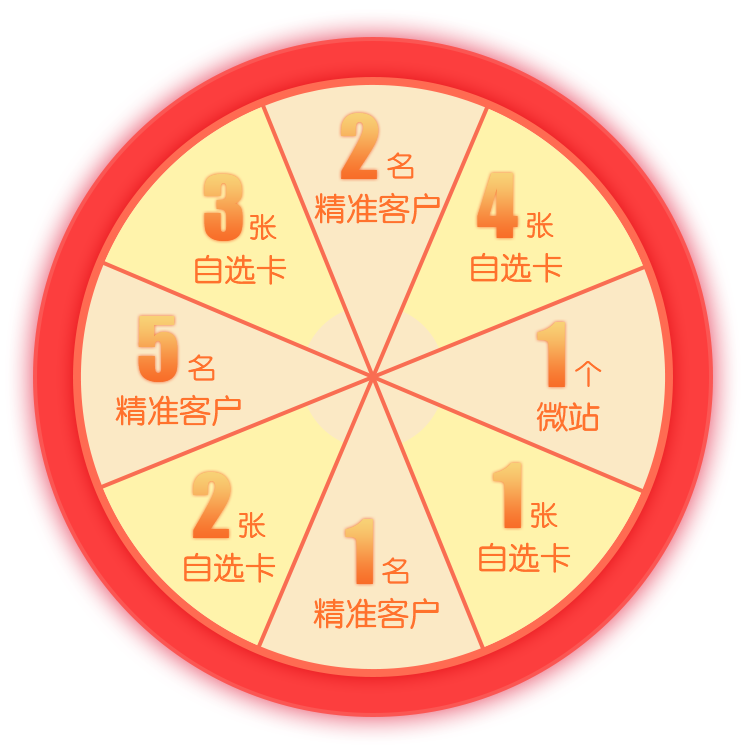
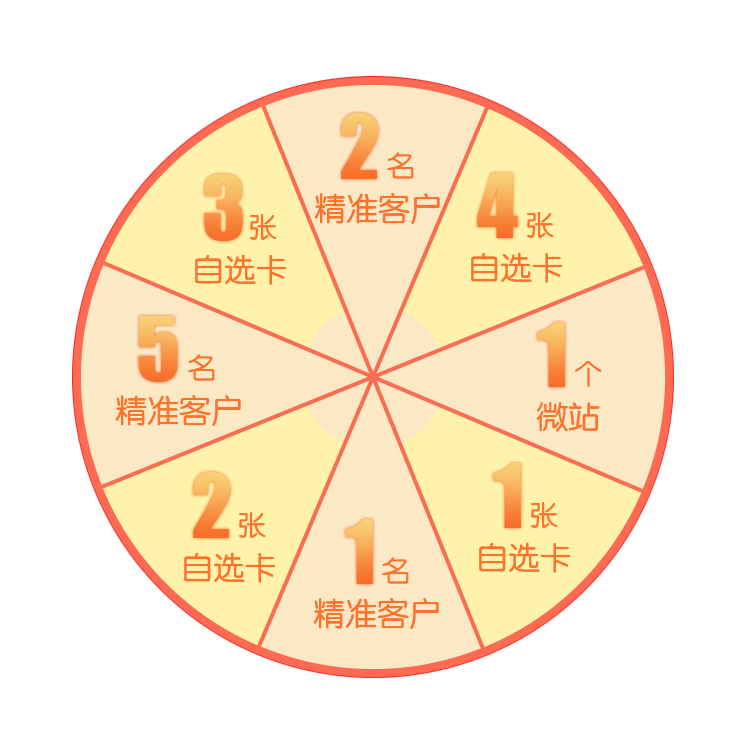
完成转盘正反转到指定位置的停止，加入彩灯闪烁

Changed region(s): [[0.0, 0.0307, 0.9813, 0.9813]]

diff --git a/lib/rotary.js b/lib/rotary.js
@@ -7,14 +7,19 @@ function Rotary(opt) {
         id: 'canvas',
         canvas_width: 300,//画布宽
         canvas_height: 300,//画布高
-        divide: 8,//转盘奖品划分的份数,7个奖品对应的索引值就是0~7,索引从0度开始
+        divide: 8,//转盘奖品划分的份数,7个奖品对应的索引值就是0~7,索引从正上方开始为0起点
+        object: false,//旋转主体，true是指针旋转，false是圆盘旋转
         pin_angle: -Math.PI / 2,//指针初始角度
         pin_size: 30 * Math.PI / 180,//指针夹角(弧度)
         pin_length: 20,//指针长度，三角形顶点到圆边界的距离
         pin_color: '#f6383e',//指针颜色
         pin_step: 30 * Math.PI / 180,//指针执行动画每秒旋转的弧度
-        pin_status: 0,//指针状态，0是默认,1是无限运动状态，2是缓停状态
-        pin_end: 5,//指针接受停止命令后渐渐停止所旋转的圈数
+        pan_step: 10,//圆盘每帧旋转的度数(正数是顺时针旋转，负数是逆时针旋转)
+        end: 2,//指针/转盘接受停止命令后渐渐停止所旋转的圈数
+        lamp_number: 20,//彩灯数量
+        lamp_color: 'yellow',//彩灯颜色
+        lamp_radius: 4,//彩灯半径
+        lamp_length: 130,//彩灯距圆心的距离
         assets: [],//预加载资源
         fps: 60//舞台刷新帧率
     };//初始默认值
@@ -23,11 +28,14 @@ function Rotary(opt) {
         stage,//舞台
         loader,//加载器
         bg_contain,//背景层
+        lamp_contain,//彩灯集合
         roll_contain,//画布中创建的对象集合
         co,//大转盘
-        pin_zhen,//指针
+        pin,//指针
+        timer,//定时器，控制彩灯
         successCallback;//指针停止后的成功回调
-
+    var isLight = true;
+    var status = 0;//旋转状态，0是默认,1是无限运动状态，2是缓停状态
     var cx = _DEFAULT.canvas_width / 2;//针盘横坐标
     var cy = _DEFAULT.canvas_height / 2;//针盘纵坐标
     var cr = _DEFAULT.canvas_width / 8;//针盘半径
@@ -44,29 +52,82 @@ function Rotary(opt) {
     };//预加载
 
     this.render = function () {
+        if (timer) {
+            clearInterval(timer);
+        }
         canvas = document.getElementById(_DEFAULT.id);
         canvas.width = _DEFAULT.canvas_width;
         canvas.height = _DEFAULT.canvas_height;
         stage = new createjs.Stage(canvas);
         bg_contain = new createjs.Container();
+        lamp_contain = new createjs.Container();
         roll_contain = new createjs.Container();
         bgInit();
+        lampInit();
         rollInit();
         btnInit();
         stage.update();
 
         //初始化圆盘
         function bgInit() {
+            var lamp_bg = new createjs.Shape();
+            lamp_bg.graphics.beginFill('#FC3E3E').drawCircle(cx, cy, 140);
             var img = loader.getResult("pan");
             co = new createjs.Bitmap(img);
             var bounds = co.getBounds();
             co.scaleX = co.scaleY = _DEFAULT.canvas_width / bounds.width;
-            co.regX = 0;
-            co.regY = 0;
-            co.rotation = 0;
-            console.log(co);
+            co.ox = _DEFAULT.canvas_width / 2;//圆盘x坐标
+            co.oy = _DEFAULT.canvas_height / 2;//圆盘y坐标
+            co.or = Math.sqrt(Math.pow(co.ox, 2) + Math.pow(co.oy, 2));//转盘半径
+            co.step = _DEFAULT.pan_step;
+            bg_contain.addChild(lamp_bg);
             bg_contain.addChild(co);
             stage.addChild(bg_contain);
+        }
+
+        //渲染彩灯
+        function lampInit() {
+            var lamp_step = Math.PI * 2 / _DEFAULT.lamp_number;
+            var lamp_angle = 0;
+            for (var i = 0; i < _DEFAULT.lamp_number; i++) {
+                lamp_angle = i * lamp_step;
+                var cos = Math.cos(lamp_angle);
+                var sin = Math.sin(lamp_angle);
+                var lx = cx + _DEFAULT.lamp_length * sin;
+                var ly = cy + _DEFAULT.lamp_length * cos;
+                var lamp = new createjs.Shape();
+                lamp.graphics.beginFill(_DEFAULT.lamp_color).drawCircle(lx, ly, _DEFAULT.lamp_radius);
+                if (i % 2 === 0) {
+                    lamp.alpha = 0.5;
+                }
+                lamp_contain.addChild(lamp);
+            }
+            timer = setInterval(function () {
+                isLight = !isLight;
+                lampUpdate();
+            }, 1000);
+            stage.addChild(lamp_contain);
+
+            function lampUpdate() {
+                _.forEach(lamp_contain.children, function (item, index) {
+                    if (isLight) {
+                        //奇数亮
+                        if (index % 2 === 0) {
+                            item.alpha = 0.5;
+                        } else {
+                            item.alpha = 1;
+                        }
+                    } else {
+                        //偶数亮
+                        if (index % 2 === 0) {
+                            item.alpha = 1;
+                        } else {
+                            item.alpha = 0.5;
+                        }
+                    }
+                });
+                stage.update();
+            }
         }
 
         //初始化指针
@@ -75,8 +136,8 @@ function Rotary(opt) {
             pin_pan.graphics.beginFill(_DEFAULT.pin_color).drawCircle(cx, cy, cr);
             roll_contain.addChild(pin_pan);
             //计算坐标并绘制三角形指针
-            pin_zhen = _this._calcPos(_DEFAULT.pin_angle, _DEFAULT.pin_step, _DEFAULT.pin_status);
-            roll_contain.addChild(pin_zhen);
+            pin = _this._calcPos(_DEFAULT.pin_angle, _DEFAULT.pin_step, status);
+            roll_contain.addChild(pin);
             stage.addChild(roll_contain);
         }
 
@@ -87,9 +148,9 @@ function Rotary(opt) {
             var bounds = co.getBounds();
             co.scaleX = co.scaleY = _DEFAULT.canvas_width / 4 / bounds.width;
             co.x = co.y = _DEFAULT.canvas_width / 2 - bounds.width * co.scaleX / 2;
-            co.addEventListener('click', function (evt) {
-                if (pin_zhen.status === 0) {
-                    pin_zhen.status = 1;//修改为动画状态
+            co.addEventListener('click', function () {
+                if (status === 0) {
+                    status = 1;//修改为动画状态
                     _this.start();
                 }
             });
@@ -101,48 +162,81 @@ function Rotary(opt) {
 
     this.start = function () {
         createjs.Ticker.removeAllEventListeners();
-        createjs.Ticker.addEventListener("tick", panTick);
+        createjs.Ticker.addEventListener("tick", _DEFAULT.object ? pinTick : panTick);
         createjs.Ticker.timingMode = createjs.Ticker.RAF;
         createjs.Ticker.setFPS(_DEFAULT.fps || 60);
 
-        function handleTick() {
-            if (pin_zhen.status === 2) {
+        //指针旋转主函数
+        function pinTick() {
+            if (status === 2) {
                 // debugger;
-                var ds = pin_zhen.target - pin_zhen.angle;
-                pin_zhen.step = ds * pin_zhen.damping;
-                if (pin_zhen.step < 0.001) {
+                var ds = pin.target - pin.angle;
+                pin.step = ds * pin.damping;
+                if (pin.step < 0.01) {
                     if (successCallback) {
                         successCallback();
                         successCallback = null;
                     }
                 }
             }
-            var next_pin_zhen = _this._calcPos(pin_zhen.angle + pin_zhen.step, pin_zhen.step, pin_zhen.status);
-            if (pin_zhen.hasOwnProperty('target')) {
-                next_pin_zhen.target = pin_zhen.target;
+            var next_pin = _this._calcPos(pin.angle + pin.step, pin.step);
+            if (pin.hasOwnProperty('target')) {
+                next_pin.target = pin.target;
             }
-            if (pin_zhen.hasOwnProperty('damping')) {
-                next_pin_zhen.damping = pin_zhen.damping;
+            if (pin.hasOwnProperty('damping')) {
+                next_pin.damping = pin.damping;
             }
-            var index = roll_contain.getChildIndex(pin_zhen);
-            roll_contain.removeChild(pin_zhen);
-            roll_contain.addChildAt(next_pin_zhen, index);
-            pin_zhen = next_pin_zhen;
+            var index = roll_contain.getChildIndex(pin);
+            roll_contain.removeChild(pin);
+            roll_contain.addChildAt(next_pin, index);
+            pin = next_pin;
 
             stage.update();
         }
 
-        function panTick(){
-
+        //圆盘旋转主函数
+        function panTick() {
+            if (status === 2) {
+                // debugger;
+                var ds = co.target - co.rotation;
+                co.step = ds * co.damping;
+                if ((co.step > 0 && co.step < 0.01) || (co.step < 0 && co.step > -0.01)) {
+                    if (successCallback) {
+                        successCallback();
+                        successCallback = null;
+                    }
+                }
+            }
+            co.rotation += co.step;
+            var ang = co.step * Math.PI / 180;
+            var cos = Math.cos(ang);
+            var sin = Math.sin(ang);
+            var dx = co.x - co.ox;
+            var dy = co.y - co.oy;
+            co.x = co.ox + dx * cos - dy * sin;
+            co.y = co.oy + dy * cos + dx * sin;
+            stage.update();
         }
     };//执行摇奖操作
 
     this.endTo = function (target, callback) {
-        // debugger
-        pin_zhen.status = 2;
-        pin_zhen.target = pin_zhen.angle + (Math.PI * 2 * _DEFAULT.pin_end - pin_zhen.angle % (Math.PI * 2)) + Math.PI * 2 / 8 * target;
-        pin_zhen.damping = _DEFAULT.pin_step / (pin_zhen.target - pin_zhen.angle);
+        status = 2;
         successCallback = callback || null;
+        if (_DEFAULT.object) {
+            //指针旋转
+            pin.target = pin.angle + (Math.PI * 2 * (_DEFAULT.end + 1) - pin.angle % (Math.PI * 2)) + Math.PI * 2 / _DEFAULT.divide * this._clacPinIndex(target);
+            pin.damping = _DEFAULT.pin_step / (pin.target - pin.angle);
+        } else {
+            //圆盘旋转
+            if (co.step > 0) {
+                //顺时针旋转
+                co.target = co.rotation + (360 * (_DEFAULT.end + 1) - co.rotation % 360) + 360 / _DEFAULT.divide * _this._clacPanIndex(target);
+            } else {
+                //逆时针旋转
+                co.target = co.rotation + (-360 * (_DEFAULT.end + 1) - co.rotation % 360) - 360 / _DEFAULT.divide * target;
+            }
+            co.damping = _DEFAULT.pan_step / (co.target - co.rotation);
+        }
     };//停止到指定角度
 
     this.stop = function () {
@@ -151,11 +245,13 @@ function Rotary(opt) {
 
     this.reset = function () {
         createjs.Ticker.reset();
+        bg_contain.removeAllChildren();
         roll_contain.removeAllChildren();
+        status = 0;
         this.render();
     };
 
-    this._calcPos = function (angle, step, status) {
+    this._calcPos = function (angle, step) {
         var vertex1 = {},
             vertex2 = {},
             vertex3 = {};
@@ -178,7 +274,30 @@ function Rotary(opt) {
             .closePath();
         pin.angle = angle;
         pin.step = step;
-        pin.status = status;
         return pin;
     };//计算三角形指针坐标，并返回出绘制后的图形
+
+    this._clacPinIndex = function (target) {
+        var arr = [];
+        for (var i = 0; i < _DEFAULT.divide; i++) {
+            arr.push(i);
+        }
+        _.times(_DEFAULT.divide/4,function(){
+            arr.unshift(arr.pop());
+        });
+        return arr[target];
+
+    };//转换索引值
+
+    this._clacPanIndex = function (target) {
+        var arr = [];
+        for (var i = _DEFAULT.divide - 1; i >= 0; i--) {
+            arr.push(i);
+        }
+        arr.unshift(arr.pop());
+        return _.findIndex(arr, function (item) {
+            return item === target;
+        });
+
+    };//转换索引值
 }

diff --git a/views/rotary.html b/views/rotary.html
@@ -13,6 +13,7 @@
     <meta name="description" content="">
     <style>
         canvas {
+            /*width: 100%;*/
             background-color: #ccc;
         }
     </style>
@@ -20,7 +21,7 @@
 <body>
 <canvas id="canvas"></canvas>
 <br>
-<!--<button id="start">开始</button>-->
+<button id="start">开始</button>
 <button id="pause">暂停</button>
 <button id="end">停止</button>
 <button id="reset">重置</button>

diff --git a/js/rotary/main.js b/js/rotary/main.js
@@ -50,7 +50,7 @@ $('#end').on('click', function () {
     var target = _.random(0, 7);
     console.log(target);
     rotary.endTo(target, function () {
-        alert('成功');
+        console.log('成功');
     });
 });
 
